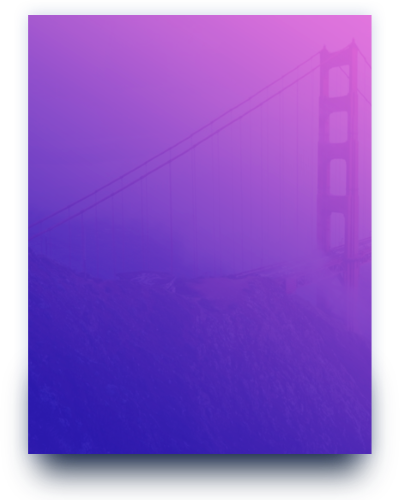
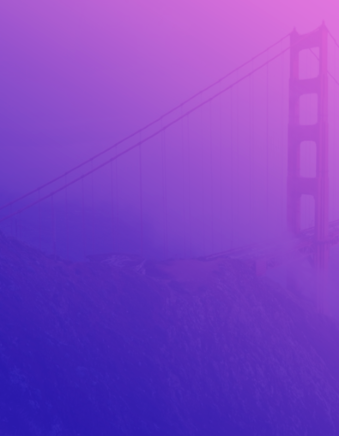
init commit

Changed region(s): [[0.0, 0.0, 1.0, 1.0]]

diff --git a/index.html b/index.html
@@ -10,8 +10,8 @@
     <script src="https://kit.fontawesome.com/d357e3b57e.js" crossorigin="anonymous"></script>
     </head>
     <body>
-        <section class="container" style="background-image: url(image.png);">
-            <div id="wrapper">
+        <section class="container">
+            <div id="wrapper" style="background-image: url(body.png);">
                 <label class="link-big link-login" for="a1">Sign in</label>
                 <input type="radio" name="a" id="a1" value="1" checked data-target="tologin">
                 <label class="link-big link-register" for="a2">Join us</label>

diff --git a/css/styles.css b/css/styles.css
@@ -30,7 +30,7 @@ body {
     color: #fff;
     font-weight: 600;
     display: flex;
-    margin: 15% auto;
+    margin: 10% auto;
     position: relative;
 }
 
@@ -39,11 +39,11 @@ body {
     width: 400px;
     height: 500px;
     margin: auto;
-    background: linear-gradient(-145deg, #c370d7 0%, #2c20a7 75%);
-    opacity: .85;
+    background-repeat: no-repeat;
+    background-position: center;
+    background-size: cover;
     box-shadow: -1px 10px 20px #14293f;
     padding: 45px 70px;
-     
  }
 
  #toregister {	
